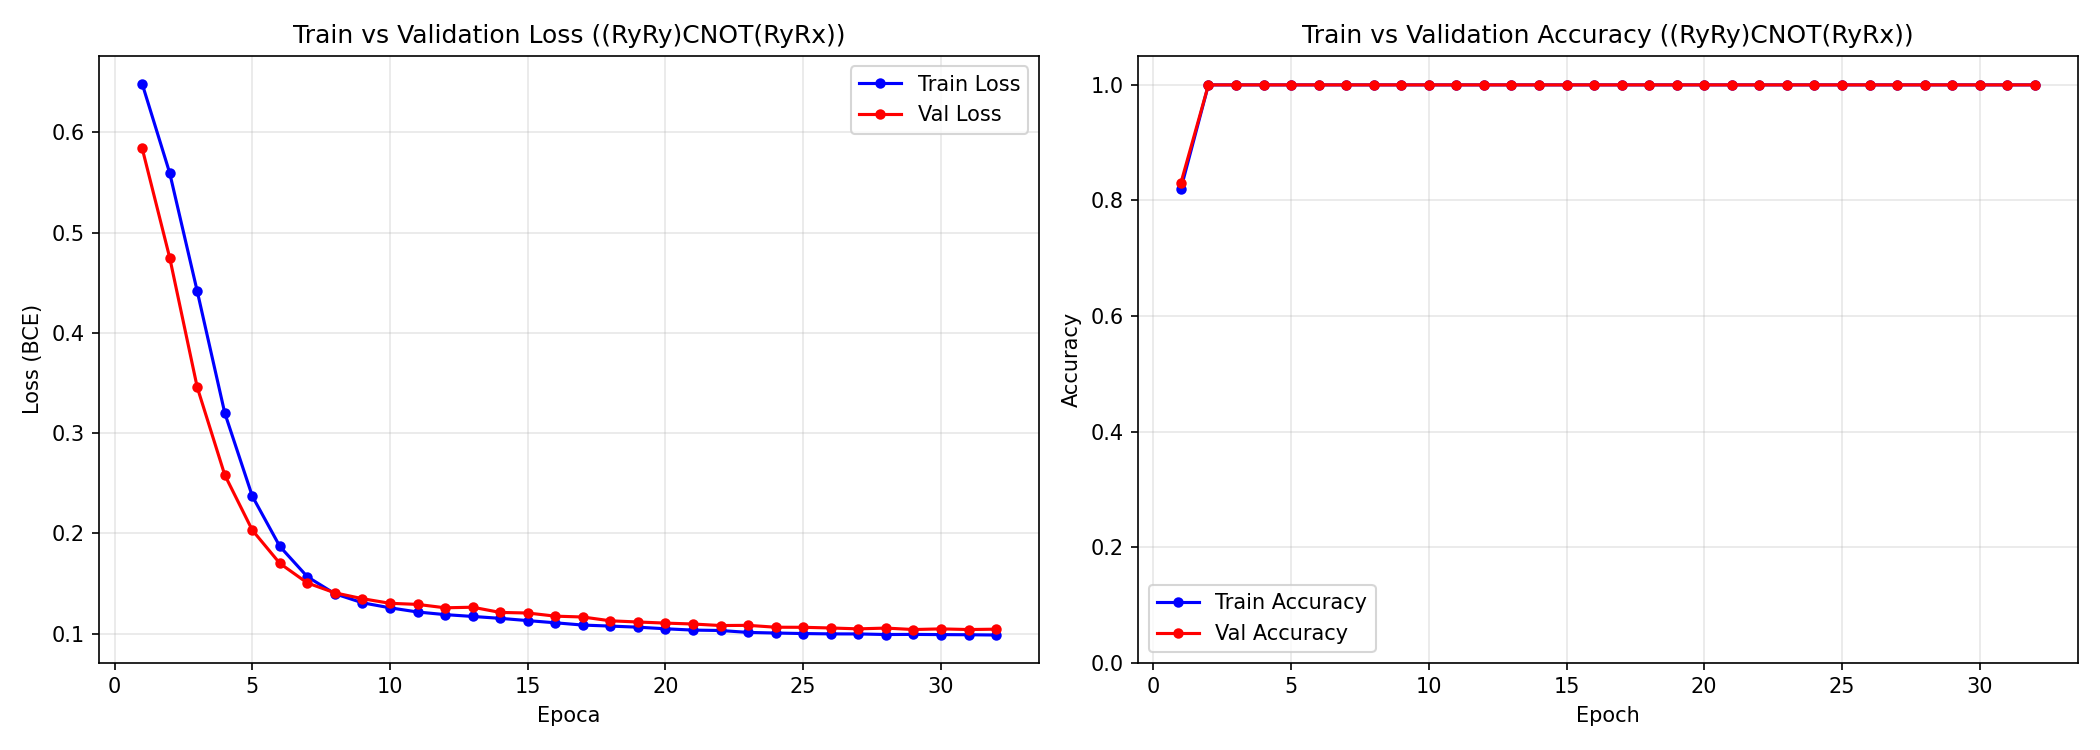
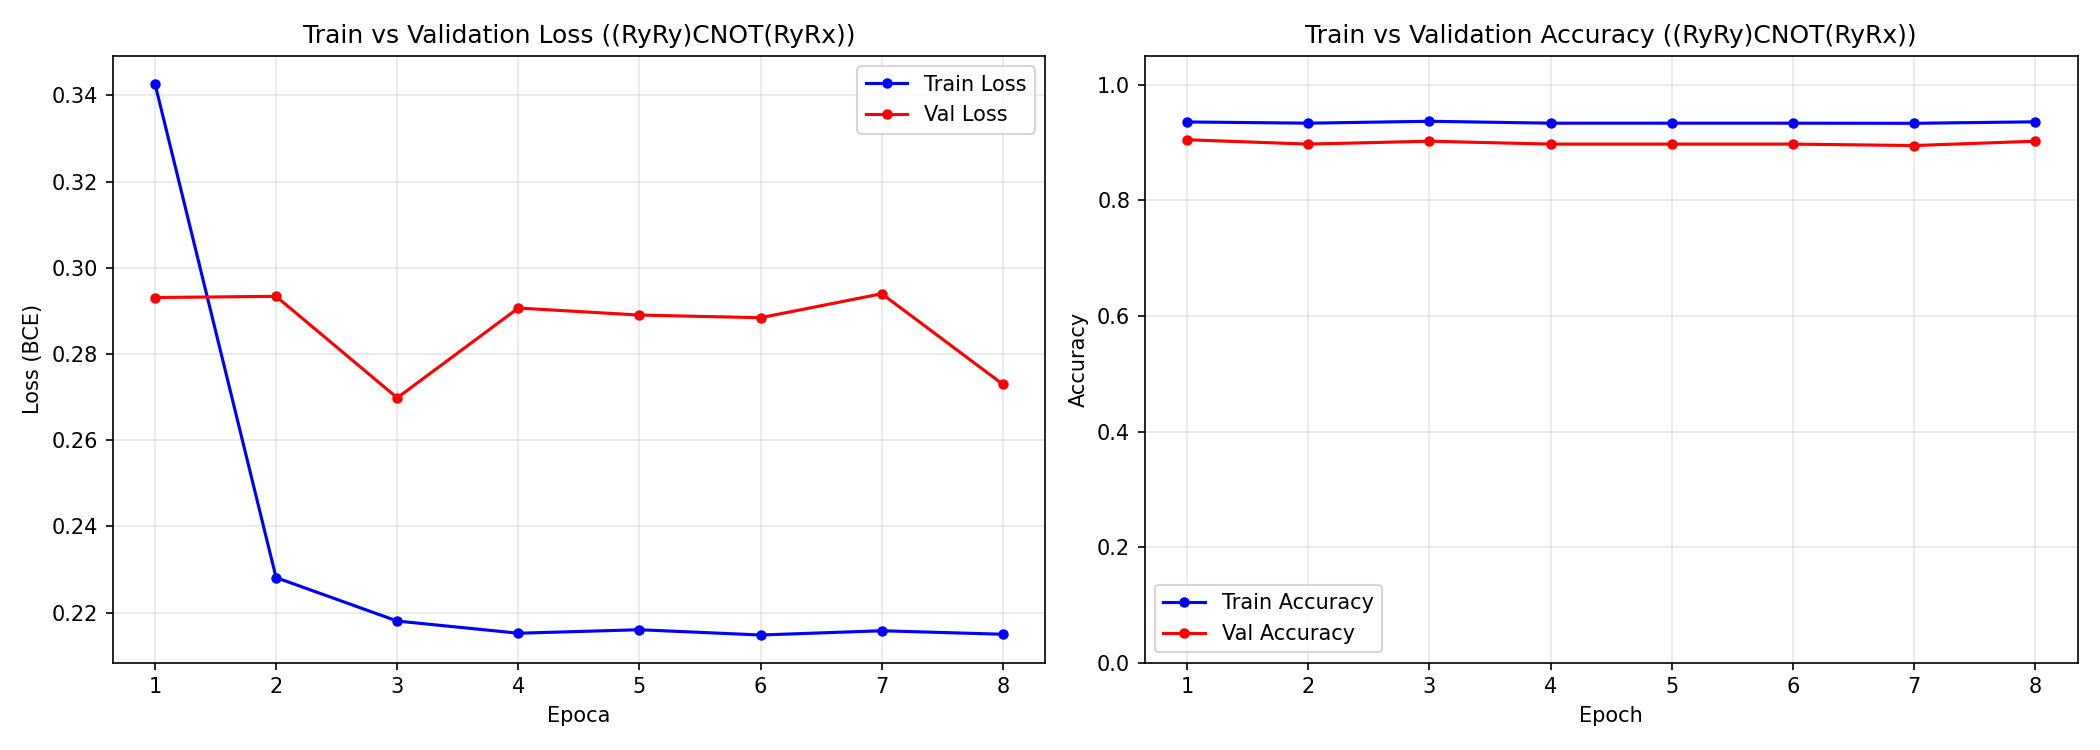
perform test

diff --git a/TripleEnc_Mera.py b/TripleEnc_Mera.py
@@ -49,28 +49,33 @@ def main():
         Y_test = torch.tensor(Y_test_np, dtype=torch.float32).reshape(-1, 1)
 
     if dataset == 'new':
-        df_train = pd.read_csv('data/new_data/train.csv')
+        df_train_full = pd.read_csv('data/new_data/train.csv')
         df_test = pd.read_csv('data/new_data/test.csv')
         
-        X_train_np = df_train.drop(columns=['classes']).values
-        Y_train_np = df_train['classes'].values
-        
-        # Select 200 samples per class for validation from the test set
+        # 1. Seleziona 200 campioni per classe per la VALIDAZIONE dal TRAIN
         val_indices = []
         for class_label in [0, 1]:
-            indices = df_test.index[df_test['classes'] == class_label].tolist()
+            # Cerchiamo gli indici nel dataframe di train
+            indices = df_train_full.index[df_train_full['classes'] == class_label].tolist()
             val_indices.extend(indices[:200])
         
-        df_val = df_test.loc[val_indices]
-        df_test_remaining = df_test.drop(val_indices)
+        df_val = df_train_full.loc[val_indices]
+        df_train_remaining = df_train_full.drop(val_indices)
+    
+        # Train (rimanente)
+        X_train_np = df_train_remaining.drop(columns=['classes']).values
+        Y_train_np = df_train_remaining['classes'].values
         
+        # Validation (estratto dal train)
         X_val_np = df_val.drop(columns=['classes']).values
         Y_val_np = df_val['classes'].values
         
-        X_test_np = df_test_remaining.drop(columns=['classes']).values
-        Y_test_np = df_test_remaining['classes'].values
+        # Test (integro)
+        X_test_np = df_test.drop(columns=['classes']).values
+        Y_test_np = df_test['classes'].values
 
-        # Convert to PyTorch tensors
+        #Conversione in PyTorch Tensors
+        
         X_train = torch.tensor(X_train_np, dtype=torch.float32)
         Y_train = torch.tensor(Y_train_np, dtype=torch.float32).reshape(-1, 1)
         
